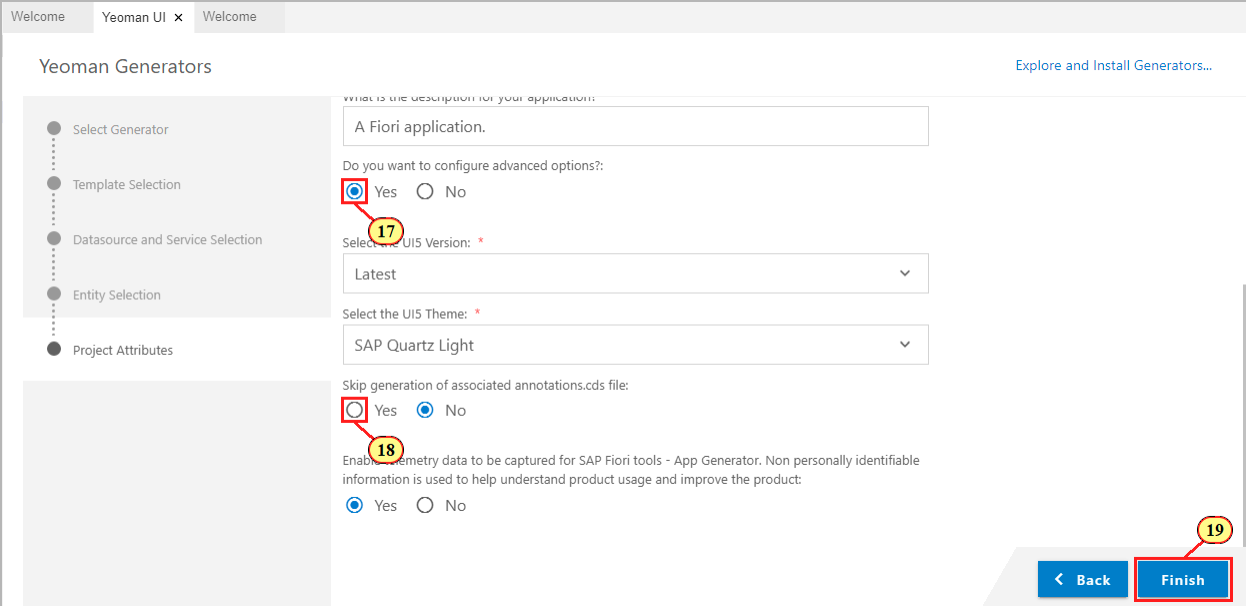
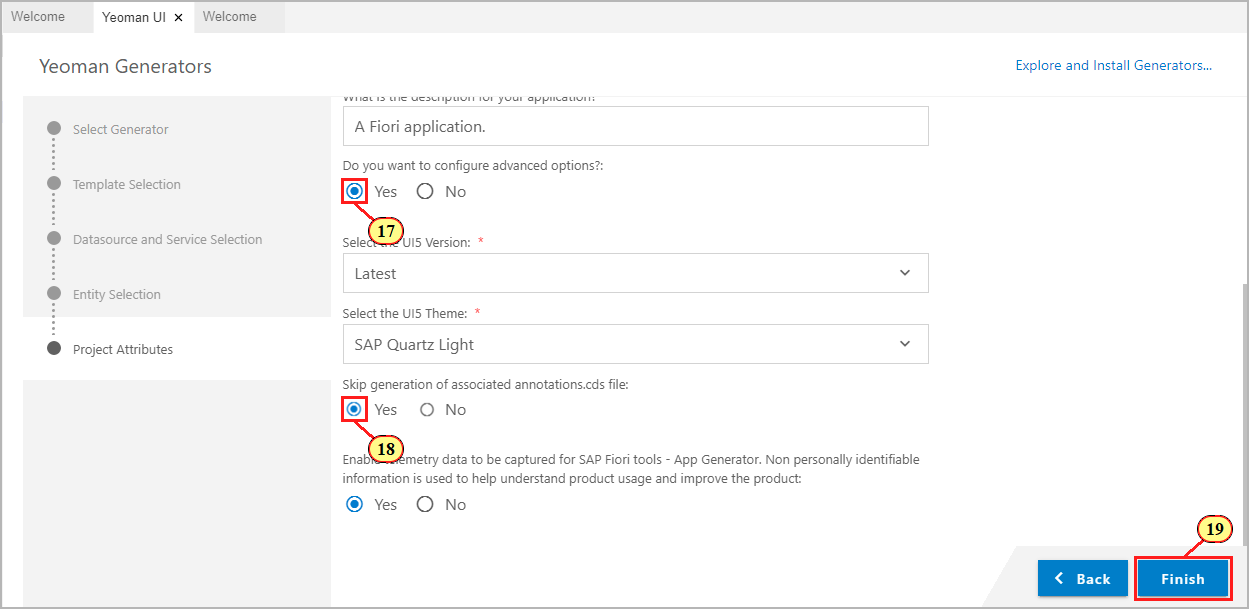
exercise 1 continued

diff --git a/exercises/ex1/README.md b/exercises/ex1/README.md
@@ -17,7 +17,7 @@ We will consume our local CAP service and use the List Report Object Page floorp
 
 ![](./images/image3.png)
 
-(4) In the template selection, click on tile  d**List Report Object Page**.
+(4) In the template selection, click on tile  **List Report Object Page**.
 
 (5) Click ![](./images/image6.png).
 
@@ -48,7 +48,7 @@ Click ![](./images/image11.png).
 (12) In the Entity Selection drop down, select **Incidents** as main entity.<br>
 The properties of this entity will be used for display of data on List
 Report, showing data from the entity collection.<br>
-Leave drop down for navigation entity to **none** since we want to show
+Leave value for drop down **Navigation Entity** to **none** since we want to show
 data of a single instance of the main entity on the object page, too.
 
 (13) Click ![](./images/image6.png).
@@ -56,16 +56,16 @@ data of a single instance of the main entity on the object page, too.
 ![](./images/image15.png)
 
 (14) Enter as module name **incidents** (module name has to match exactly for
-subsequent exercises to work properly)
+some of the subsequent exercises to work properly)
 
-(15) Enter as App Title **My Incidents**
+(15) Choose an App Title, for example **My Incidents**
 
 (16) Enter as namespace **sap.fe.demo** (namespace has to match exactly for
-subsequent exercises to work properly)
+some of the subsequent exercises to work properly)
 
 ![](./images/image17.png)
 
-(17) Select **Yes in order to configure advanced options.
+(17) Select **Yes** in order to configure advanced options.
 
 (18) Select **Yes** in order to skip generation of an
 additional associated annotation.cds file.<br>
@@ -76,7 +76,8 @@ corresponding file in app-\>annotation.cds.
 
 ![](./images/image18.png)
 
-This will start the app generation. When done, you can review the generated artifacts in the Explorer View of SAP Business Application Studio.<br>
+This will start the app generation. When done, you can review the generated artifacts in the Explorer View of SAP Business Application Studio.
+
 ![](./images/image29.png)
 
 ## Exercise 1.2 Testing the App
